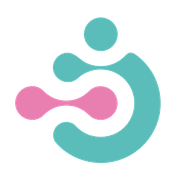
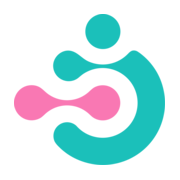
เปลี่ยนโลโก้เป็นเวอร์ชันใหม่จากไฟล์ vector ทางการ
สร้างใหม่ทั้งหมดจาก assets/brand/Baby and mom_Logo_Colour.ai (ไฟล์ .ai
จากแบรนด์ เก็บไว้ local เพราะ assets/ อยู่ใน .gitignore):

- public/logo.png · public/logo-white.png — 1440x433 พื้นใส (เดิม 720x225)
- app/icon.png (512) · app/apple-icon.png (180) — ตัด symbol จาก vector เดียวกัน
- สีตรง CI เป๊ะแล้ว: teal #1BC0BA · ชมพู #F978B3
  (ของเดิมเป็นราสเตอร์สีเพี้ยน #5ABDB9 / #E97FB1)
- สัดส่วนโลโก้แนวนอนเปลี่ยน 3.2:1 → 3.33:1 จึงแก้ค่าใน components/wordmark.tsx
  ไม่ให้ภาพยืดและกันพื้นที่ผิด

diff --git a/components/wordmark.tsx b/components/wordmark.tsx
@@ -9,12 +9,12 @@ export function Wordmark({
   white = false,
 }: {
   className?: string;
-  /** rendered height in px; width scales automatically (logo ratio ≈ 3.2:1) */
+  /** rendered height in px; width scales automatically (logo ratio ≈ 3.33:1) */
   height?: number;
   /** use the all-white version (for teal/dark backgrounds) */
   white?: boolean;
 }) {
-  const width = Math.round(height * 3.2);
+  const width = Math.round(height * 3.33);
   return (
     <Image
       src={white ? "/logo-white.png" : "/logo.png"}
